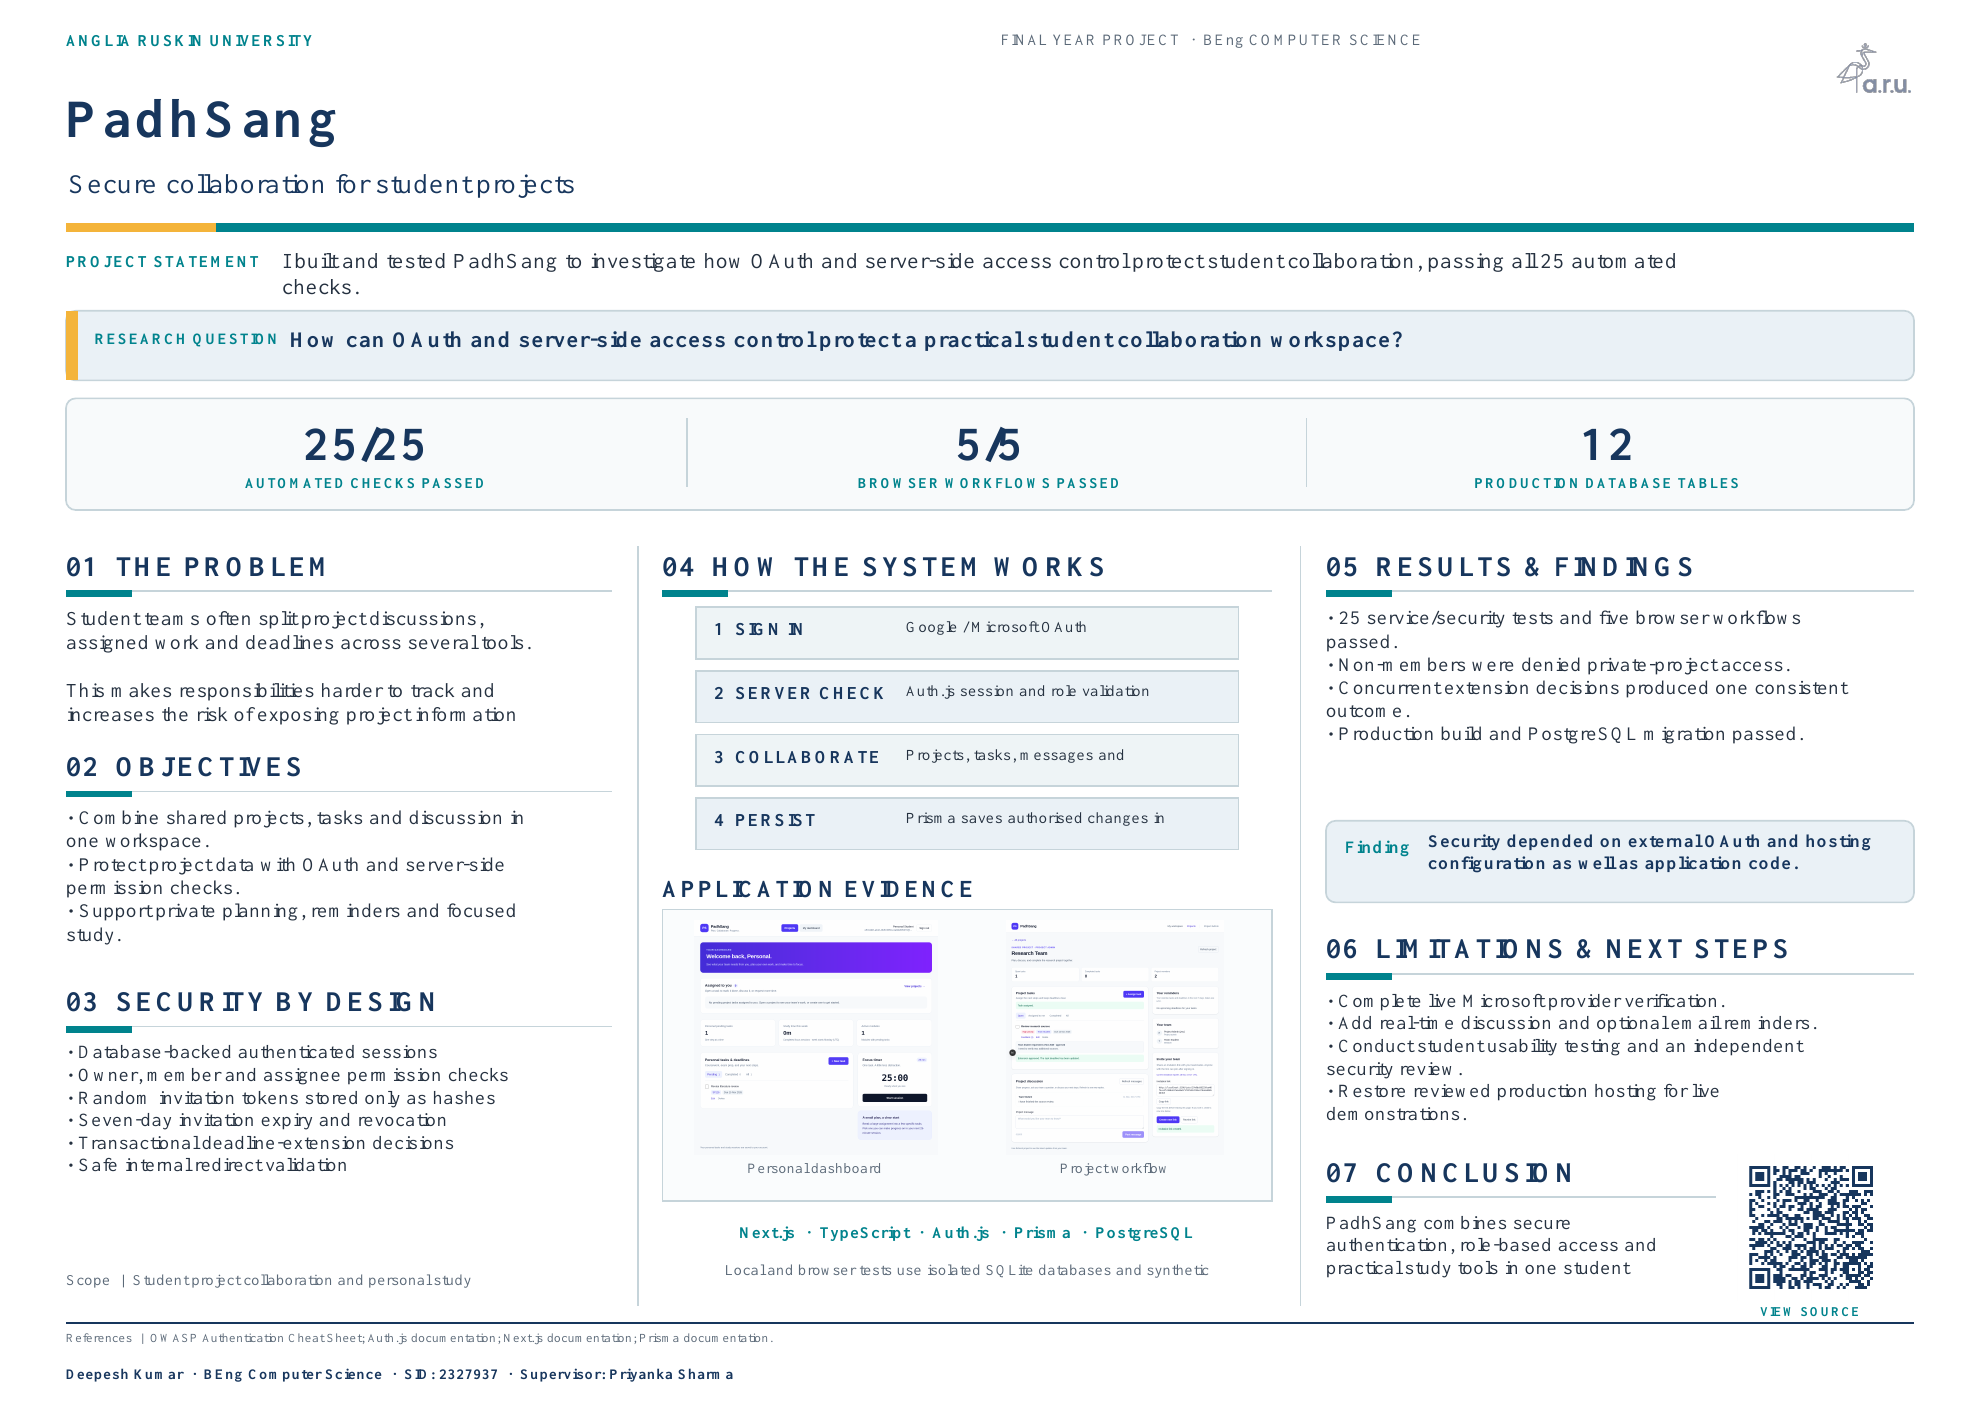
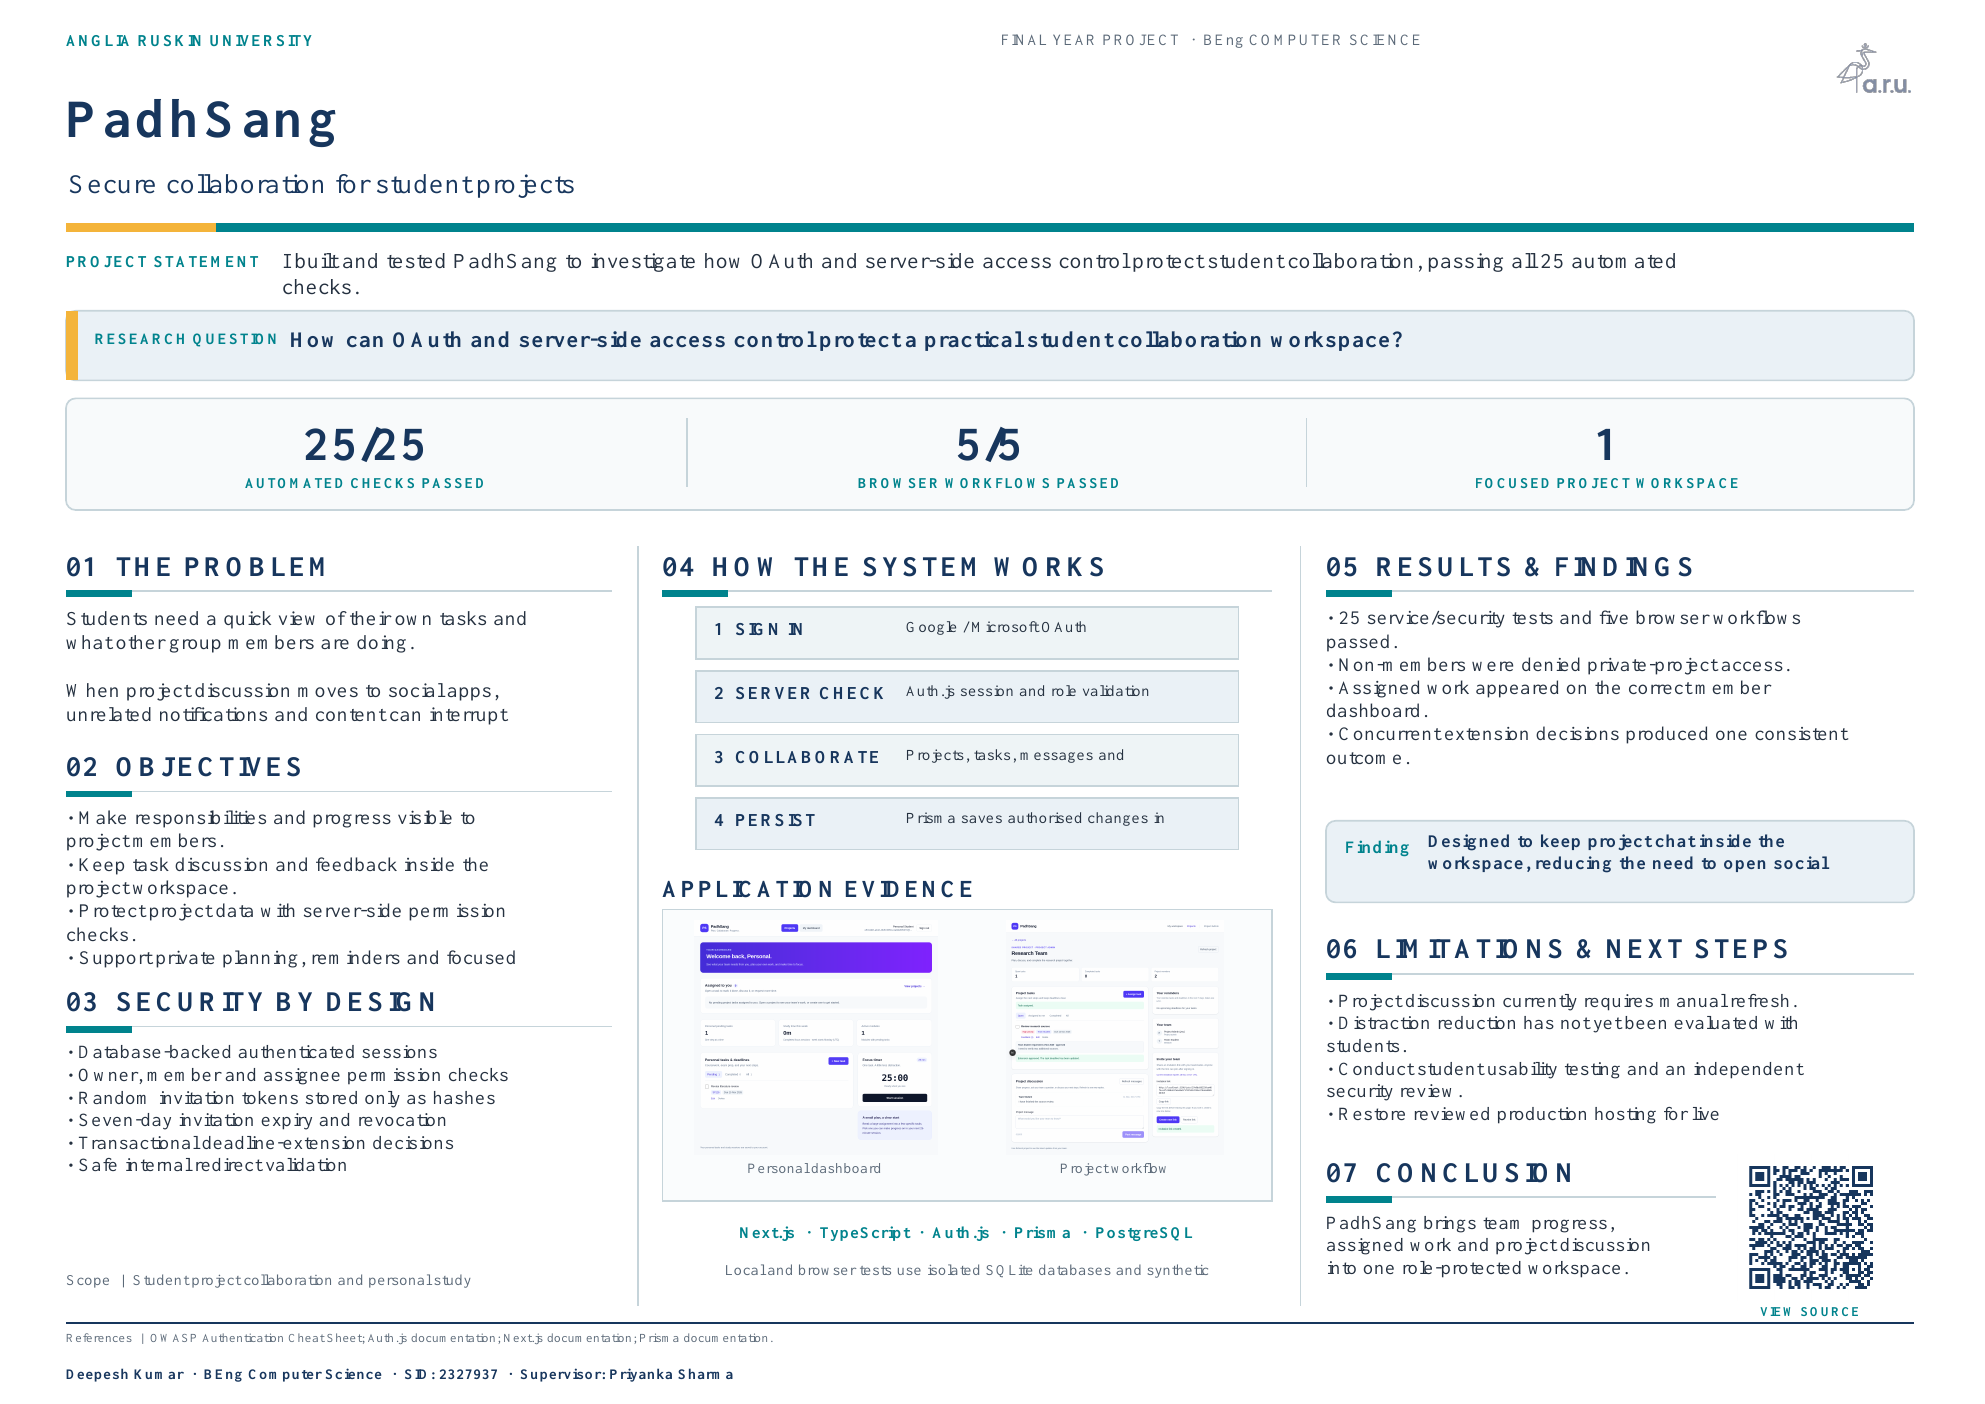
Emphasize focused student collaboration in poster

diff --git a/docs/poster/generate_aru_poster.py b/docs/poster/generate_aru_poster.py
@@ -192,7 +192,7 @@ def build_pptx():
     add_rect(slide, 0.55, 3.32, 15.4, 0.93, fill="F8FAFB", line=LINE, radius=True)
     add_metric(slide, "25/25", "automated checks passed", 1.15, 3.39, 3.8)
     add_metric(slide, "5/5", "browser workflows passed", 6.35, 3.39, 3.8)
-    add_metric(slide, "12", "production database tables", 11.5, 3.39, 3.8)
+    add_metric(slide, "1", "focused project workspace", 11.5, 3.39, 3.8)
     add_rect(slide, 5.72, 3.48, 0.012, 0.58, fill=LINE)
     add_rect(slide, 10.88, 3.48, 0.012, 0.58, fill=LINE)
 
@@ -204,14 +204,15 @@ def build_pptx():
 
     add_section_heading(slide, "01", "THE PROBLEM", x1, 4.55, w1)
     add_body(slide, [
-        "Student teams often split project discussions, assigned work and deadlines across several tools.",
-        "This makes responsibilities harder to track and increases the risk of exposing project information to the wrong user.",
+        "Students need a quick view of their own tasks and what other group members are doing.",
+        "When project discussion moves to social apps, unrelated notifications and content can interrupt focus.",
     ], x1, 5.04, w1, 1.08, 12.5)
 
     add_section_heading(slide, "02", "OBJECTIVES", x1, 6.22, w1)
     add_body(slide, [
-        "• Combine shared projects, tasks and discussion in one workspace.",
-        "• Protect project data with OAuth and server-side permission checks.",
+        "• Make responsibilities and progress visible to project members.",
+        "• Keep task discussion and feedback inside the project workspace.",
+        "• Protect project data with server-side permission checks.",
         "• Support private planning, reminders and focused study.",
     ], x1, 6.7, w1, 1.34, 12.2)
 
@@ -267,26 +268,26 @@ def build_pptx():
     add_body(slide, [
         "• 25 service/security tests and five browser workflows passed.",
         "• Non-members were denied private-project access.",
+        "• Assigned work appeared on the correct member dashboard.",
         "• Concurrent extension decisions produced one consistent outcome.",
-        "• Production build and PostgreSQL migration passed.",
     ], x3, 5.04, w3, 1.75, 12.1)
     add_rect(slide, x3, 6.84, w3, 0.68, fill=PALE_BLUE, line=LINE, radius=True)
     add_text(slide, "Finding", x3 + 0.16, 6.96, 0.7, 0.2,
              size=11, color=TEAL, bold=True)
-    add_text(slide, "Security depended on external OAuth and hosting configuration as well as application code.",
+    add_text(slide, "Designed to keep project chat inside the workspace, reducing the need to open social apps.",
              x3 + 0.85, 6.91, w3 - 1.02, 0.36, size=11.2, color=NAVY, bold=True)
 
     add_section_heading(slide, "06", "LIMITATIONS & NEXT STEPS", x3, 7.74, w3)
     add_body(slide, [
-        "• Complete live Microsoft provider verification.",
-        "• Add real-time discussion and optional email reminders.",
+        "• Project discussion currently requires manual refresh.",
+        "• Distraction reduction has not yet been evaluated with students.",
         "• Conduct student usability testing and an independent security review.",
         "• Restore reviewed production hosting for live demonstrations.",
     ], x3, 8.23, w3, 1.26, 11.8)
 
     add_section_heading(slide, "07", "CONCLUSION", x3, 9.6, 3.25)
     add_text(slide,
-             "PadhSang combines secure authentication, role-based access and practical study tools in one student workspace.",
+             "PadhSang brings team progress, assigned work and project discussion into one role-protected workspace.",
              x3, 10.08, 3.25, 0.72, size=11.8, color=INK)
     slide.shapes.add_picture(str(QR_PATH), Inches(14.48), Inches(9.62),
                              width=Inches(1.22), height=Inches(1.22))
@@ -405,7 +406,7 @@ def build_pdf():
     pdf_text(c, "RESEARCH QUESTION", 0.79, 2.73, 1.6, 0.24, 10, TEAL, True)
     pdf_text(c, RESEARCH_QUESTION, 2.42, 2.7, 13.15, 0.3, 14, NAVY, True)
     pdf_rect(c, 0.55, 3.32, 15.4, 0.93, "F8FAFB", LINE, 0.08)
-    metrics = [("25/25", "AUTOMATED CHECKS PASSED"), ("5/5", "BROWSER WORKFLOWS PASSED"), ("12", "PRODUCTION DATABASE TABLES")]
+    metrics = [("25/25", "AUTOMATED CHECKS PASSED"), ("5/5", "BROWSER WORKFLOWS PASSED"), ("1", "FOCUSED PROJECT WORKSPACE")]
     for i, (value, label) in enumerate(metrics):
         xx = [1.15, 6.35, 11.5][i]
         pdf_text(c, value, xx, 3.42, 3.8, 0.45, 30, NAVY, True, "center")
@@ -415,9 +416,9 @@ def build_pdf():
     w1, w2, w3 = 4.55, 5.08, 4.9
     pdf_rect(c, 5.31, 4.55, 0.012, 6.33, LINE); pdf_rect(c, 10.83, 4.55, 0.012, 6.33, LINE)
     pdf_heading(c, "01", "THE PROBLEM", x1, 4.55, w1)
-    pdf_text(c, "Student teams often split project discussions, assigned work and deadlines across several tools.\n\nThis makes responsibilities harder to track and increases the risk of exposing project information to the wrong user.", x1, 5.04, w1, 1.08, 12.5)
+    pdf_text(c, "Students need a quick view of their own tasks and what other group members are doing.\n\nWhen project discussion moves to social apps, unrelated notifications and content can interrupt focus.", x1, 5.04, w1, 1.08, 12.5)
     pdf_heading(c, "02", "OBJECTIVES", x1, 6.22, w1)
-    pdf_text(c, "• Combine shared projects, tasks and discussion in one workspace.\n• Protect project data with OAuth and server-side permission checks.\n• Support private planning, reminders and focused study.", x1, 6.7, w1, 1.34, 12.2)
+    pdf_text(c, "• Make responsibilities and progress visible to project members.\n• Keep task discussion and feedback inside the project workspace.\n• Protect project data with server-side permission checks.\n• Support private planning, reminders and focused study.", x1, 6.7, w1, 1.34, 12.2)
     pdf_heading(c, "03", "SECURITY BY DESIGN", x1, 8.18, w1)
     pdf_text(c, "• Database-backed authenticated sessions\n• Owner, member and assignee permission checks\n• Random invitation tokens stored only as hashes\n• Seven-day invitation expiry and revocation\n• Transactional deadline-extension decisions\n• Safe internal redirect validation", x1, 8.66, w1, 1.86, 11.8)
     pdf_text(c, "Scope  |  Student project collaboration and personal study planning.", x1, 10.58, w1, 0.28, 9.5, MUTED)
@@ -437,14 +438,14 @@ def build_pdf():
     pdf_text(c, "Next.js  ·  TypeScript  ·  Auth.js  ·  Prisma  ·  PostgreSQL", x2, 10.18, w2, 0.28, 10.3, TEAL, True, "center")
     pdf_text(c, "Local and browser tests use isolated SQLite databases and synthetic accounts.", x2, 10.5, w2, 0.26, 9.5, MUTED, False, "center")
     pdf_heading(c, "05", "RESULTS & FINDINGS", x3, 4.55, w3)
-    pdf_text(c, "• 25 service/security tests and five browser workflows passed.\n• Non-members were denied private-project access.\n• Concurrent extension decisions produced one consistent outcome.\n• Production build and PostgreSQL migration passed.", x3, 5.04, w3, 1.75, 12.1)
+    pdf_text(c, "• 25 service/security tests and five browser workflows passed.\n• Non-members were denied private-project access.\n• Assigned work appeared on the correct member dashboard.\n• Concurrent extension decisions produced one consistent outcome.", x3, 5.04, w3, 1.75, 12.1)
     pdf_rect(c, x3, 6.84, w3, 0.68, PALE_BLUE, LINE, 0.08)
     pdf_text(c, "Finding", x3 + 0.16, 6.96, 0.7, 0.2, 11, TEAL, True)
-    pdf_text(c, "Security depended on external OAuth and hosting configuration as well as application code.", x3 + 0.85, 6.91, w3 - 1.02, 0.36, 11.2, NAVY, True)
+    pdf_text(c, "Designed to keep project chat inside the workspace, reducing the need to open social apps.", x3 + 0.85, 6.91, w3 - 1.02, 0.36, 11.2, NAVY, True)
     pdf_heading(c, "06", "LIMITATIONS & NEXT STEPS", x3, 7.74, w3)
-    pdf_text(c, "• Complete live Microsoft provider verification.\n• Add real-time discussion and optional email reminders.\n• Conduct student usability testing and an independent security review.\n• Restore reviewed production hosting for live demonstrations.", x3, 8.23, w3, 1.26, 11.8)
+    pdf_text(c, "• Project discussion currently requires manual refresh.\n• Distraction reduction has not yet been evaluated with students.\n• Conduct student usability testing and an independent security review.\n• Restore reviewed production hosting for live demonstrations.", x3, 8.23, w3, 1.26, 11.8)
     pdf_heading(c, "07", "CONCLUSION", x3, 9.6, 3.25)
-    pdf_text(c, "PadhSang combines secure authentication, role-based access and practical study tools in one student workspace.", x3, 10.08, 3.25, 0.72, 11.8, INK)
+    pdf_text(c, "PadhSang brings team progress, assigned work and project discussion into one role-protected workspace.", x3, 10.08, 3.25, 0.72, 11.8, INK)
     c.drawImage(QR_PATH, 14.48, H - 10.84, 1.22, 1.22, mask="auto")
     pdf_text(c, "VIEW SOURCE", 14.44, 10.85, 1.3, 0.2, 8.5, TEAL, True, "center")
     pdf_rect(c, 0.55, 11.02, 15.4, 0.012, NAVY)
